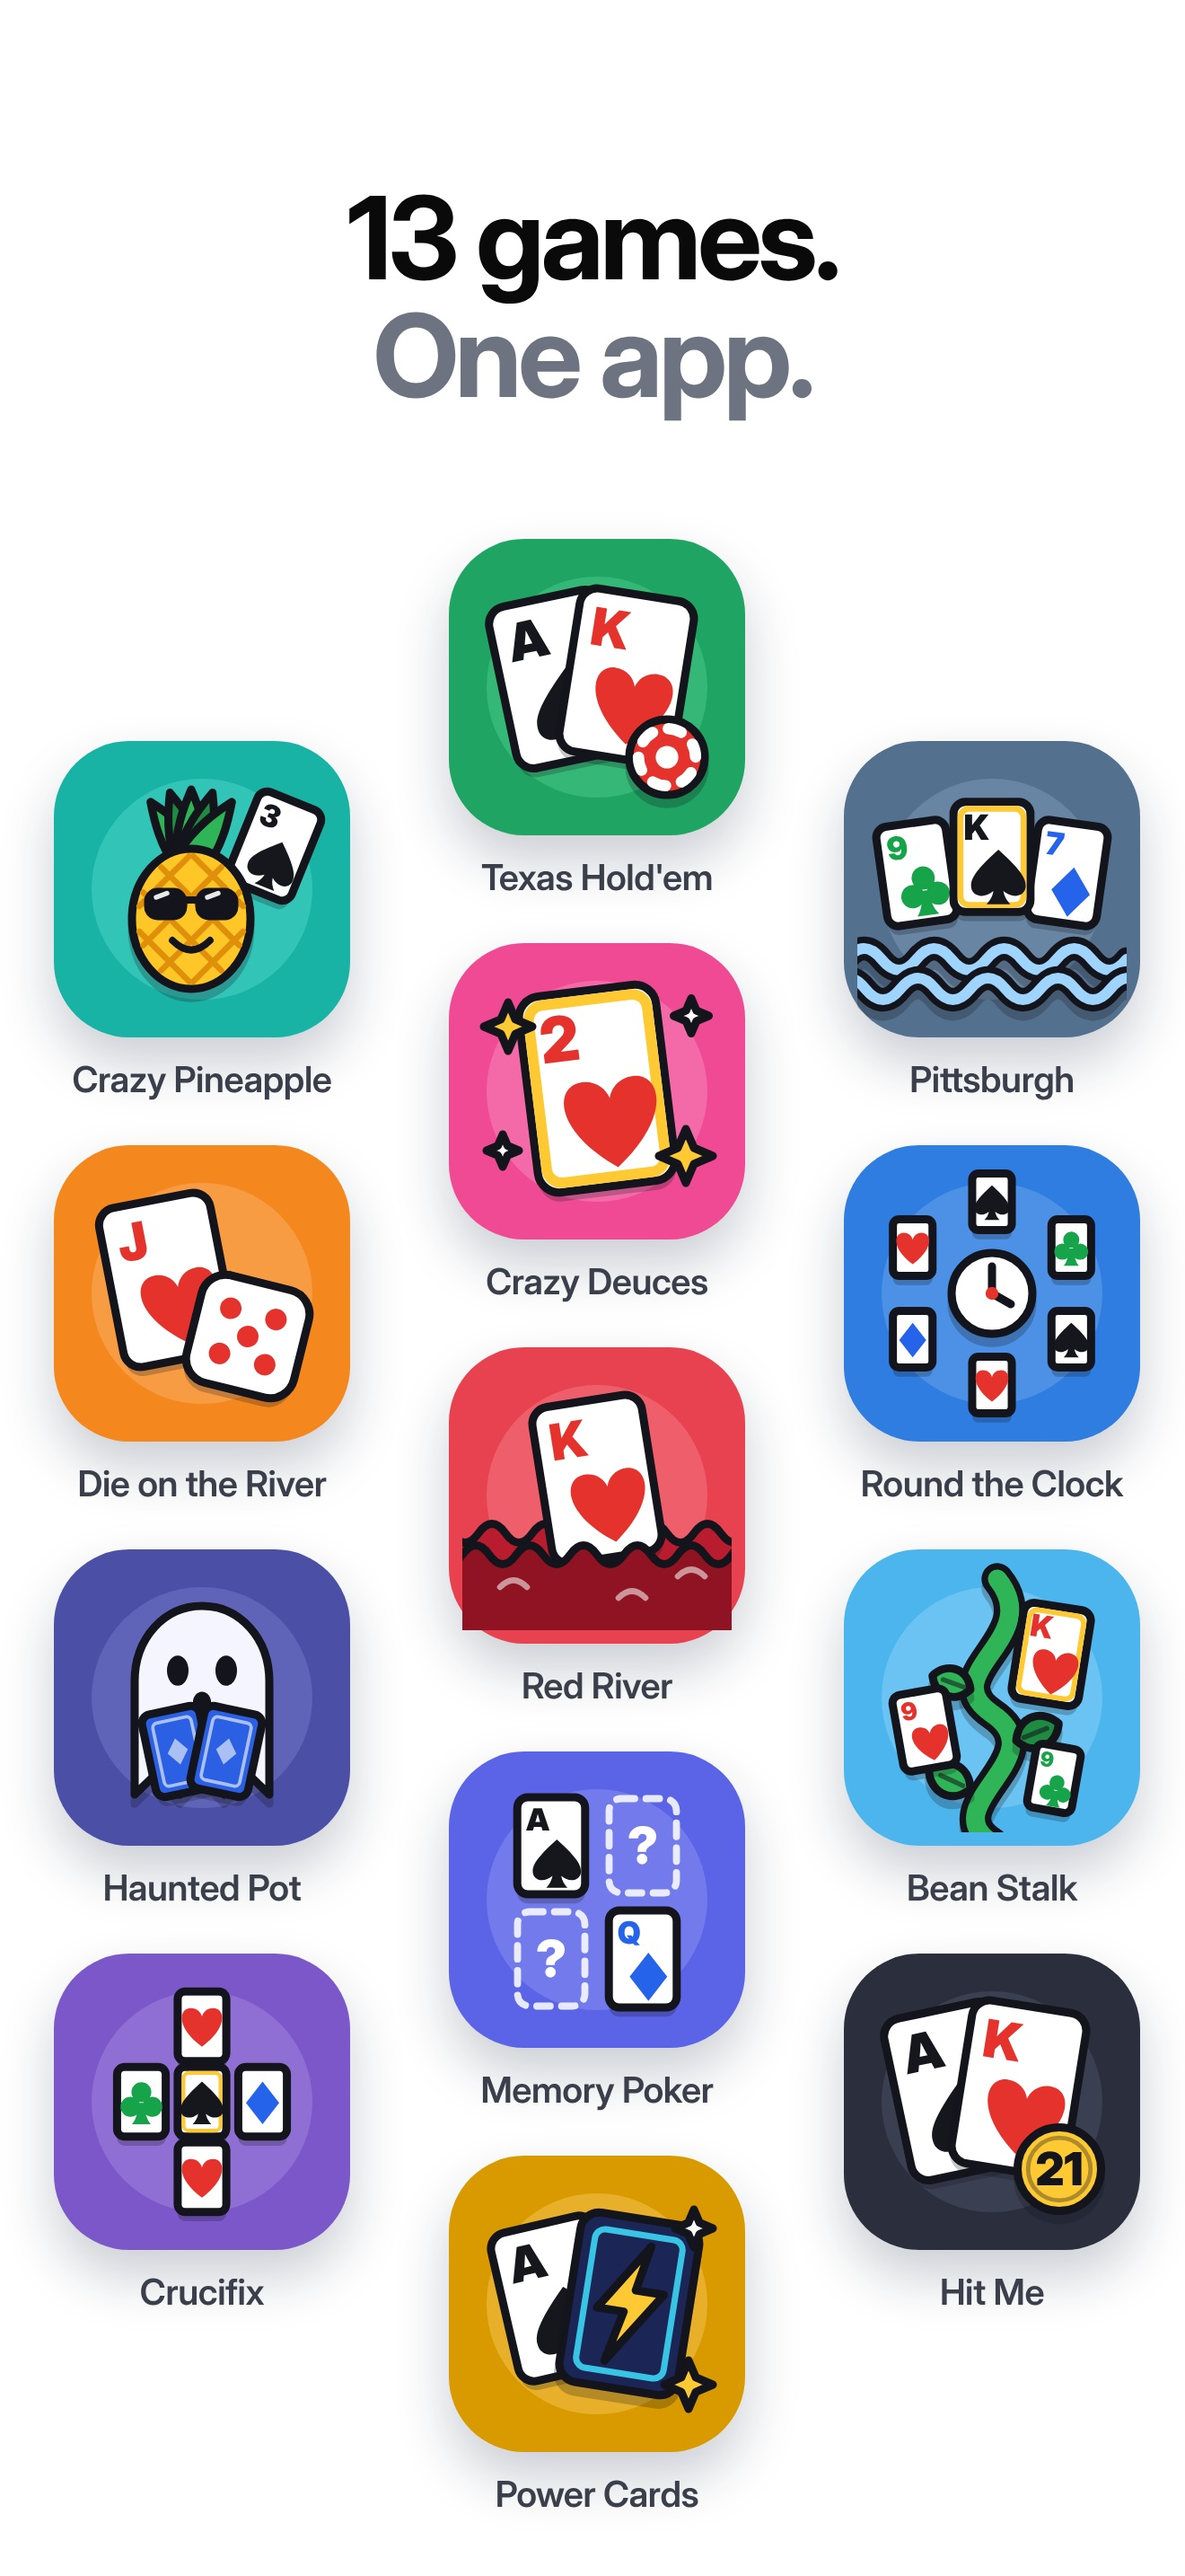
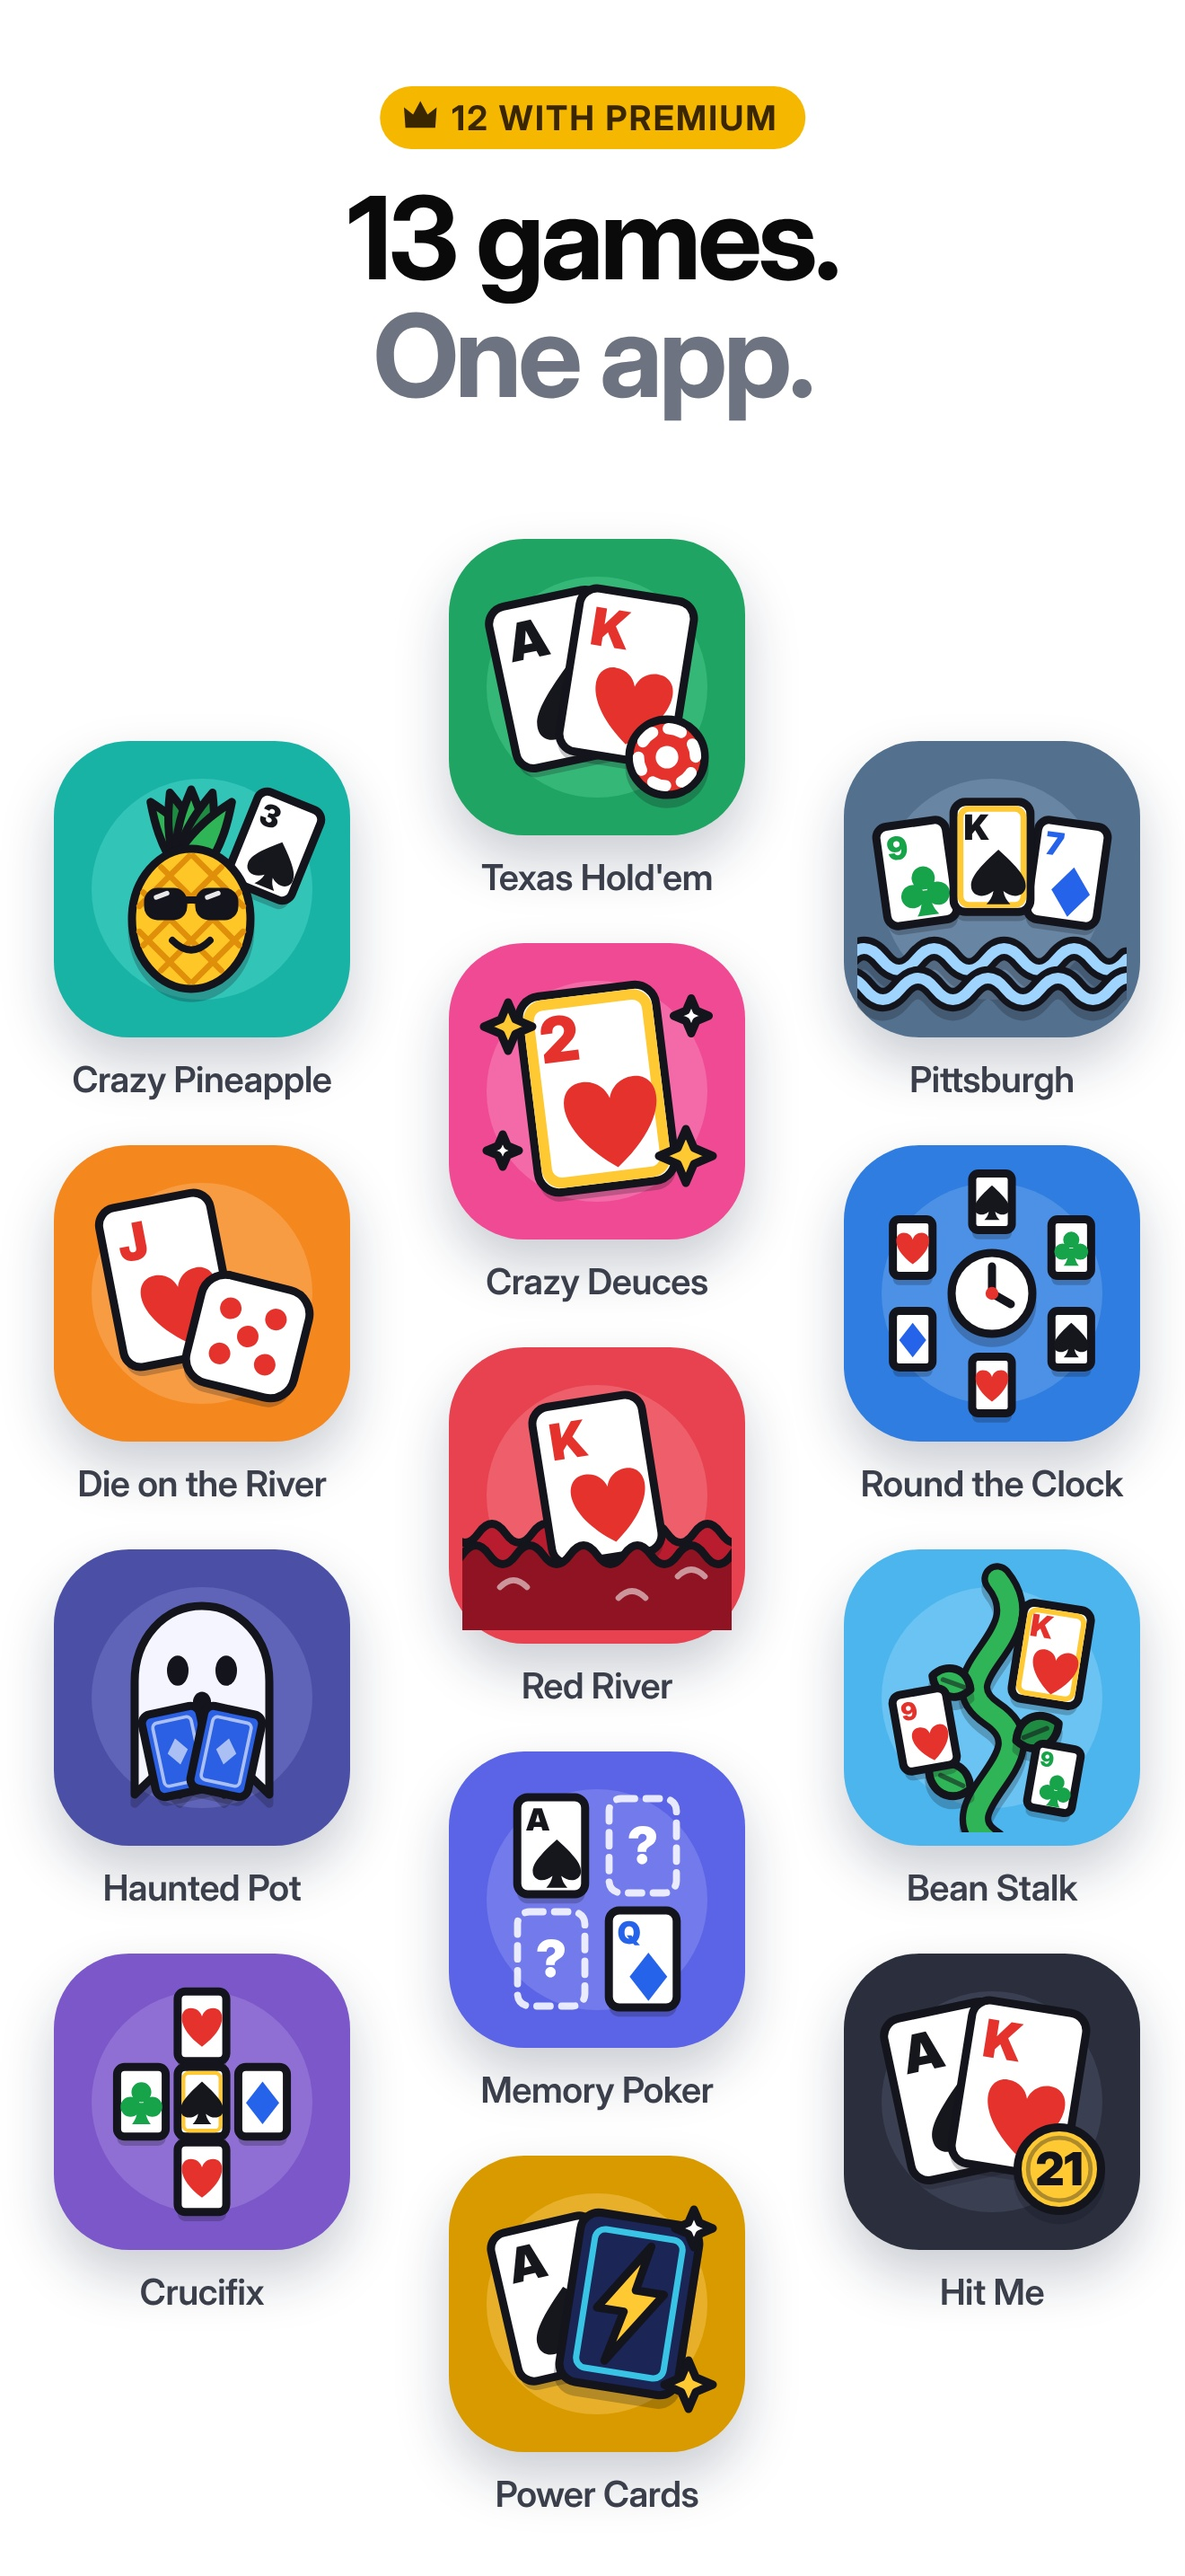
App Store screenshots: a Power Cards slide and Premium tags
- New slide 6, "Bend the rules. Play a power card.": the owner's Power Cards
  table dimmed with its Fold Tax panel pulled out, in the same style as the
  Crazy Pineapple and Die on the River slides. Eight slides now, two slots free.
- A small gold "Premium" tag with a crown above the headline on every slide
  that shows a Premium game (Crazy Pineapple, Die on the River, Power Cards,
  the bots slide's Crazy Pineapple table), and "12 with Premium" on 13 games,
  so nobody downloads expecting every game free.
- Both sizes regenerated (6.9" 1320 x 2868, 6.3" 1206 x 2622); README lists the
  new order and sources.

Motion rules: none touched (no app animation changed).

Claude-Session: https://claude.ai/code/session_01JcRw4DA2eAJEZcdSqAcKC1

Changed region(s): [[0.3106, 0.031, 0.6833, 0.0621]]

diff --git a/store/scripts/slides.html b/store/scripts/slides.html
@@ -26,4 +26,6 @@ body.light .bub .face{background:#fff}
 .tile .sq{width:330px;height:330px;border-radius:84px;display:grid;place-items:center;box-shadow:0 30px 60px var(--shadow)}
 .tile .sq svg{width:300px;height:300px}
 .tile .nm{margin-top:22px;font-size:40px;font-weight:600;color:var(--tileink);letter-spacing:-.01em;white-space:nowrap}
+.ptag{position:absolute;left:50%;top:96px;transform:translateX(-50%);display:flex;align-items:center;gap:14px;padding:12px 30px 12px 24px;border-radius:999px;background:#f5b700;color:#3a2600;font-size:38px;font-weight:700;letter-spacing:.06em;text-transform:uppercase;white-space:nowrap}
+.ptag svg{width:42px;height:42px;margin-top:-4px}
 </style></head><body class="__THEME__">__BODY__</body></html>

diff --git a/store/README.md b/store/README.md
@@ -5,16 +5,21 @@ with the owner, one asset at a time, from Apple's [asset best practices](https:/
 
 ## Screenshots (`screenshots/`)
 
-Seven slides on white, in upload order, at the two iPhone sizes App Store Connect takes: `6.9in-1320x2868` (the
-iPhone Pro Max class) and `6.3in-1206x2622` (the required medium Dynamic Island class). JPEG, no transparency.
+Eight slides on white, in upload order, at the two iPhone sizes App Store Connect takes: `6.9in-1320x2868` (the
+iPhone Pro Max class) and `6.3in-1206x2622` (the required medium Dynamic Island class). JPEG, no transparency. Ten are
+allowed, so two slots are free (one is kept for the update that brings back the parked games).
 
 1. Your friends. One table. (Hold'em with chat bubbles)
 2. Add friends with a code. Free. (the lobby, its game code pulled out)
-3. 13 games. One app. (every game's picture)
-4. Three cards. Throw one away. (Crazy Pineapple's discard)
-5. Roll the die. Swap the river. (Die on the River)
-6. Make the right call. Built-in range trainer. See why, hand by hand. (the daily hand's Best play)
-7. No one around? Bots fill the seats.
+3. 13 games. One app. (every game's picture; tag "12 with Premium")
+4. Three cards. Throw one away. (Crazy Pineapple's discard; Premium tag)
+5. Roll the die. Swap the river. (Die on the River; Premium tag)
+6. Bend the rules. Play a power card. (Power Cards, the Fold Tax panel pulled out; Premium tag)
+7. Make the right call. Built-in range trainer. See why, hand by hand. (the daily hand's Best play, free)
+8. No one around? Bots fill the seats. (a Crazy Pineapple table; Premium tag)
+
+A slide that shows a Premium game wears a small gold "Premium" tag with a crown above its headline (`premium()` in
+`slides.cjs`; the owner's call, 17 Nov 2026), so nobody downloads expecting every game free.
 
 Only the first three show in search results. The type is Inter Display (not SF Pro, whose licence covers UI mock-ups,
 not marketing headlines). Emoji are only ever cut from real iPhone screenshots, never drawn.
@@ -24,8 +29,9 @@ session). The layouts are `scripts/slides.cjs` and `scripts/slides.html`; the pi
 
 - `holdem-yourturn.png`, `pineapple-discard.png`, `pineapple-yourturn.png`, `dice-dice.png`: How to Play's iPhone 17
   Pro simulator shots (`native/assets/howto`), which are 804 pixels wide, so the slides are a little soft.
-- `lobby-sb.png`: the owner's own iPhone screenshot of the lobby, with a clean 9:41 status bar drawn over the real one.
-  It shows the owner's name on their seat.
+- `lobby-sb.png`, `power-sb.png`, `power-panel.png`: the owner's own iPhone screenshots of the lobby and a Power Cards
+  table and its Fold Tax panel, with a clean 9:41 status bar drawn over the real one. They show the owner's name on
+  their seat.
 - `web-hand-sb.png`, `bestplay.png`, `chart.png`: Range training from the app's web build (its icons and font are the
   web's stand-ins), with a drawn status bar.
 - `x-*.png` (bubble faces), `discard-row.png`, `rolled.png`, `codecard.png`: pieces cut from those.
